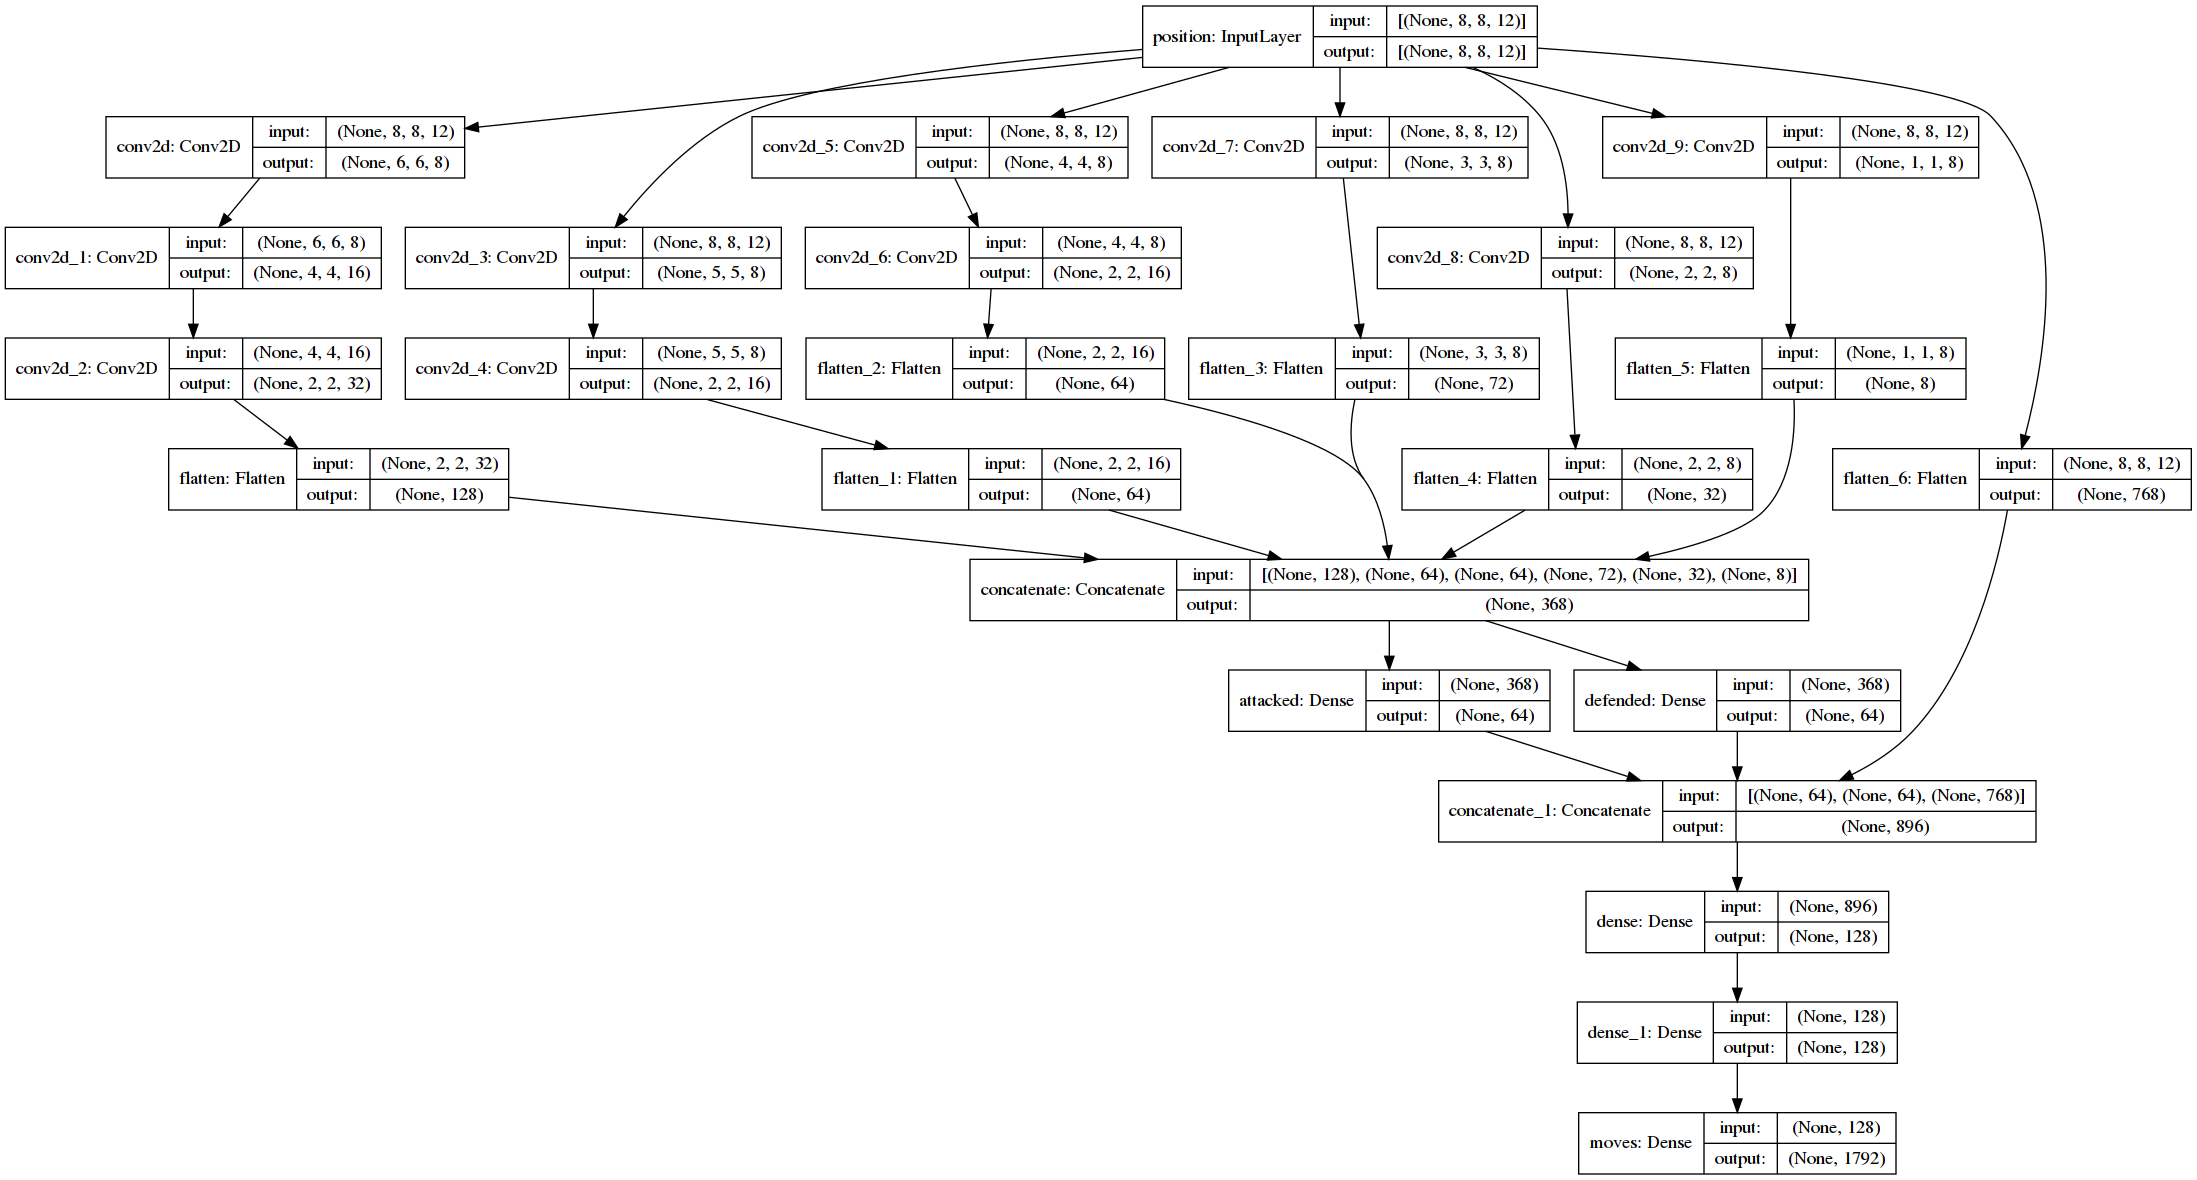
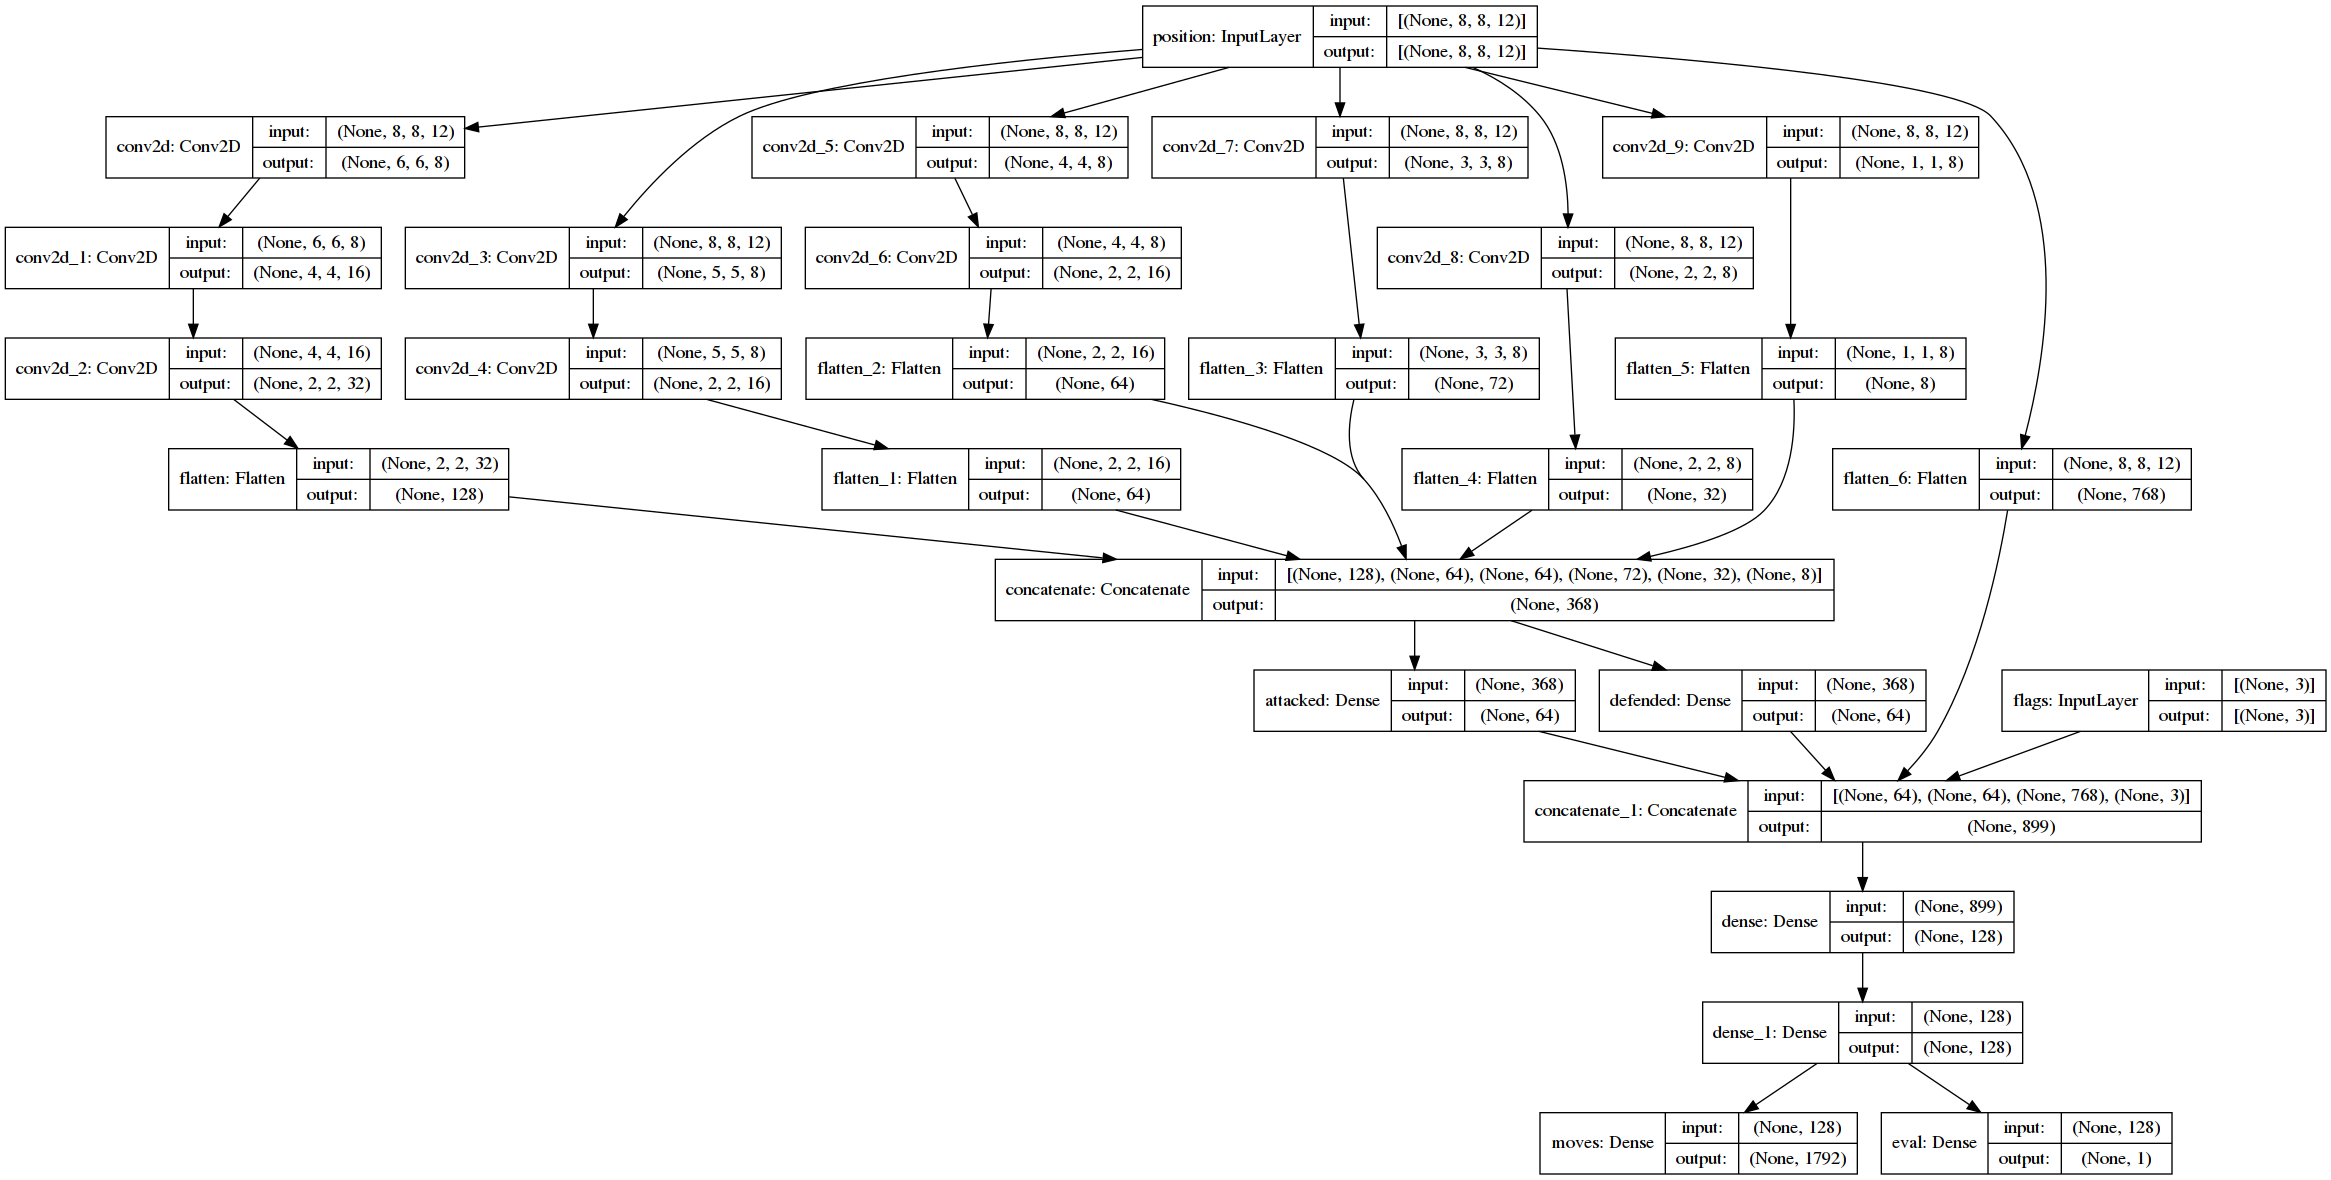
Added more input flags and restored eval output

diff --git a/chessnn/nn.py b/chessnn/nn.py
@@ -91,22 +91,23 @@ class NNChess(NN):
     def _get_nn(self):
         pos_shape = (8, 8, len(PIECE_TYPES) * 2)
         position = layers.Input(shape=pos_shape, name="position")
-        main = self.__nn_conv(position)
+        flags = layers.Input(shape=(3,), name="flags")
+        pos_analyzed = self.__nn_conv(position)
 
-        # main = layers.Dense(64 * 2, activation="sigmoid", kernel_regularizer=reg)(main)
+        out_attacked = layers.Dense(64, activation="sigmoid", name="attacked")(pos_analyzed)
+        out_defended = layers.Dense(64, activation="sigmoid", name="defended")(pos_analyzed)
 
-        out_attacked = layers.Dense(64, activation="sigmoid", name="attacked")(main)
-        out_defended = layers.Dense(64, activation="sigmoid", name="defended")(main)
-
-        conc = layers.concatenate([out_attacked, out_defended, layers.Flatten()(position)])
+        conc = layers.concatenate([out_attacked, out_defended, layers.Flatten()(position), flags])
         main = layers.Dense(128, activation=activ_hidden)(conc)
         main = layers.Dense(128, activation=activ_hidden)(main)
-        out_moves = layers.Dense(len(MOVES_MAP), activation="softmax", name="moves")(main)
+        out_moves = layers.Dense(len(MOVES_MAP), activation="sigmoid", name="moves")(main)
+        out_eval = layers.Dense(1, activation="sigmoid", name="eval")(main)
 
-        model = models.Model(inputs=[position], outputs=[out_moves, out_attacked, out_defended])
+        model = models.Model(inputs=[position, flags], outputs=[out_moves, out_eval, out_attacked, out_defended])
         model.compile(optimizer=optimizer,
-                      loss=["categorical_crossentropy", "binary_crossentropy", "binary_crossentropy", ],
-                      loss_weights=[1.0, 0.1, 0.1],
+                      loss=["categorical_crossentropy",
+                            "binary_crossentropy", "binary_crossentropy", "binary_crossentropy", ],
+                      # loss_weights=[1.0, 0.1, 0.1],
                       metrics=['categorical_accuracy', "accuracy"])
         return model
 
@@ -170,11 +171,11 @@ class NNChess(NN):
         batch_len = len(data)
 
         inputs_pos = np.full((batch_len, 8, 8, len(PIECE_TYPES) * 2), 0.0)
-        inputs_flags = np.full((batch_len, 1), 0.0)
+        inputs_flags = np.full((batch_len, 3), 0.0)
         out_moves = np.full((batch_len, len(MOVES_MAP)), 0.0)
         out_attacks = np.full((batch_len, 64), 0.0)
         out_threats = np.full((batch_len, 64), 0.0)
-        evals = np.full((batch_len, 2), 0.0)
+        out_evals = np.full((batch_len, 1), 0.0)
 
         batch_n = 0
         for moverec in data:
@@ -182,11 +183,12 @@ class NNChess(NN):
 
             pos, evl, move = moverec.position, moverec.eval, moverec.get_move_num()
 
-            evals[batch_n][0] = evl
-            evals[batch_n][1] = 1.0 - evals[batch_n][0]
+            out_evals[batch_n][0] = evl
             inputs_pos[batch_n] = pos
 
-            inputs_flags[batch_n][0] = moverec.fifty_progress
+            inputs_flags[batch_n][0] = 1.0 / moverec.full_move
+            inputs_flags[batch_n][1] = 1.0 / (moverec.fifty_progress + 1)
+            inputs_flags[batch_n][2] = moverec.fifty_progress / 100.0
 
             out_moves[batch_n][move] = evl
             out_attacks[batch_n] = moverec.attacked
@@ -194,4 +196,4 @@ class NNChess(NN):
 
             batch_n += 1
 
-        return [inputs_pos], [out_moves, out_attacks, out_threats]  # , inputs_flags #  , evals
+        return [inputs_pos, inputs_flags], [out_moves, out_evals, out_attacks, out_threats]

diff --git a/training.py b/training.py
@@ -56,7 +56,8 @@ def play_one_game(pwhite, pblack, rnd):
 
     badp = badp / badc
 
-    logging.info("Game #%d:\t%s by %s,\t%d moves, %d%% bad", rnd, result, board.explain(), board.fullmove_number, badp)
+    logging.info("Game #%d/%d:\t%s by %s,\t%d moves, %d%% bad", rnd, rnd % 960, result, board.explain(),
+                 board.fullmove_number, badp)
 
     return result
 
@@ -65,7 +66,7 @@ class DataSet(object):
     def __init__(self, fname) -> None:
         super().__init__()
         self.fname = fname
-        self.dataset = set()
+        self.dataset = []
 
     def dump_moves(self):
         if os.path.exists(self.fname):
@@ -80,7 +81,7 @@ class DataSet(object):
         if os.path.exists(self.fname):
             with open(self.fname, 'rb') as fhd:
                 loaded = pickle.load(fhd)
-                self.dataset.update(loaded)
+                self.dataset.extend(loaded)
 
     def update(self, moves):
         lprev = len(self.dataset)
@@ -88,7 +89,7 @@ class DataSet(object):
             if move.ignore:
                 move.forced_eval = 0
 
-        self.dataset.update(moves)
+        self.dataset.extend(moves)
         if len(self.dataset) - lprev < len(moves):
             logging.debug("partial increase")
         elif len(self.dataset) - lprev == len(moves):
@@ -96,7 +97,7 @@ class DataSet(object):
         else:
             logging.debug("no increase")
 
-        while len(self.dataset) > 200000:
+        while len(self.dataset) > 50000:
             mmin = min([x.from_round for x in self.dataset])
             logging.info("Removing things older than %s", mmin)
             for x in list(self.dataset):
@@ -118,7 +119,7 @@ def play_with_score(pwhite, pblack):
     losing.load_moves()
     draw = DataSet("losing.pkl")
 
-    rnd = max([x.from_round for x in winning.dataset | losing.dataset]) if winning.dataset else 0
+    rnd = max([x.from_round for x in winning.dataset + losing.dataset]) if winning.dataset else 0
     while True:
         if not (rnd % 960):
             _retrain(winning, losing, draw)
@@ -127,8 +128,10 @@ def play_with_score(pwhite, pblack):
         wmoves = pwhite.get_moves()
         bmoves = pblack.get_moves()
         good_moves = _fill_sets(result, wmoves, bmoves, losing, winning, draw)
-        #if good_moves:
-        #    nn.train(good_moves, 1)
+        if good_moves and False:
+            moves = wmoves + bmoves
+            random.shuffle(moves)
+            nn.train(moves, 1)
         rnd += 1
 
 
@@ -137,7 +140,7 @@ def _retrain(winning, losing, draw):
     winning.dump_moves()
     losing.dump_moves()
 
-    lst = list(winning.dataset)
+    lst = list(winning.dataset + losing.dataset)
     random.shuffle(lst)
     if lst:
         nn.train(lst, 20)
@@ -156,7 +159,7 @@ def _fill_sets(result, wmoves, bmoves, losing, winning, draw):
         for x, move in enumerate(bmoves):
             move.eval = 0.0
         winning.update(wmoves)
-        # losing.update(bmoves)
+        losing.update(bmoves)
         return wmoves
     elif result == '0-1':
         for x, move in enumerate(bmoves):
@@ -164,7 +167,7 @@ def _fill_sets(result, wmoves, bmoves, losing, winning, draw):
         for x, move in enumerate(wmoves):
             move.eval = 0.0
         winning.update(bmoves)
-        # losing.update(wmoves)
+        losing.update(wmoves)
         return bmoves
     else:
         for x, move in enumerate(bmoves):

diff --git a/chessnn/__init__.py b/chessnn/__init__.py
@@ -7,7 +7,6 @@ from collections import Counter
 
 import chess
 import numpy as np
-import xxhash
 from chess import pgn, SquareSet, SQUARES
 from matplotlib import pyplot
 
@@ -242,8 +241,11 @@ class BoardOptim(chess.Board):
 class MoveRecord(object):
     piece: chess.Piece
 
-    def __init__(self, position, move, fifty_progress, piece) -> None:
+    def __init__(self, position, move, piece, move_number, fifty_progress) -> None:
         super().__init__()
+        # TODO: add en passant square info
+        # TODO: add castling rights info
+        self.full_move = move_number
         self.fifty_progress = fifty_progress
         self.eval = None
         self.ignore = False
@@ -261,29 +263,6 @@ class MoveRecord(object):
 
     def __str__(self) -> str:
         return json.dumps({x: y for x, y in self.__dict__.items() if x not in ('forced_eval', 'kpis')})
-
-    def __hash__(self):
-        h = xxhash.xxh64()
-        h.update(self.position)
-        return sum([hash(x) for x in (h.intdigest(), self.to_square, self.from_square, self.piece)])
-
-    def __eq__(self, o) -> bool:
-        """
-        :type o: MoveRecord
-        """
-        pself = xxhash.xxh64()
-        pself.update(self.position)
-        po = xxhash.xxh64()
-        po.update(o.position)
-
-        return pself.intdigest() == po.intdigest() and self.piece == o.piece and self.from_square == o.from_square \
-               and self.to_square == o.to_square
-
-    def __ne__(self, o) -> bool:
-        """
-        :type o: MoveRecord
-        """
-        raise ValueError()
 
     def get_eval(self):
         if self.eval is not None:

diff --git a/chessnn/player.py b/chessnn/player.py
@@ -44,7 +44,7 @@ class PlayerBase(object):
         moveflip = move if self.color == chess.WHITE else self._mirror_move(move)
         piece = self.board.piece_at(move.from_square)
         piece_type = piece.piece_type if piece else None
-        moverec = MoveRecord(pos, moveflip, self.board.halfmove_clock / 100.0, piece_type)
+        moverec = MoveRecord(pos, moveflip, piece_type, self.board.fullmove_number, self.board.halfmove_clock, )
         moverec.from_round = in_round
         moverec.eval = geval
 
@@ -95,9 +95,9 @@ class NNPLayer(PlayerBase):
 
     def _choose_best_move(self):
         pos = self.board.get_position() if self.color == chess.WHITE else self.board.mirror().get_position()
-        moverec = MoveRecord(pos, chess.Move.null(), self.board.halfmove_clock / 100.0, None)
-        scores4096, _, _ = self.nn.inference([moverec])  # , geval
-        geval = [0]
+        moverec = MoveRecord(pos, chess.Move.null(), None, self.board.fullmove_number, self.board.halfmove_clock)
+        scores4096, geval, _, _ = self.nn.inference([moverec])
+        # geval = [0]
         return self._scores_to_move(scores4096), geval[0]
 
     def _scores_to_move(self, scores4096):

diff --git a/api.py b/api.py
@@ -80,7 +80,7 @@ if __name__ == "__main__":
     logging.basicConfig(level=logging.DEBUG)
 
     white = PlayerAPI(WHITE)
-    black = NNPLayer(BLACK, NN("nn.hdf5"))
+    black = NNPLayer(BLACK, NN(True, "nn.hdf5"))
 
     cnt = 1
     while True:

diff --git a/README.md b/README.md
@@ -204,3 +204,7 @@ Also, I changed structure of NN:
  This net trains quite good now, I figured out loss, metrics and activations for aux and main outputs. Categorical accuracy of "moves" output is still below 0.5, but I see sample games with some attacks and captures, which is a good sign.
  
  Meanwhile, S16 - Division P is live on https://tcec.chessdom.com/, Leela plays versus Stockfish again...
+ 
+ ### 10 Sep 2019
+ 
+ Interesting thought: I should not use softmax on moves output layer. Just because possible moves are independent and score for them should be just independent sigmoid. Which also means that lost games can again be included in training set. There are some questions on training moves like this, since we only can pass single good/bad move as input. Ideal solution would be having own loss function.
